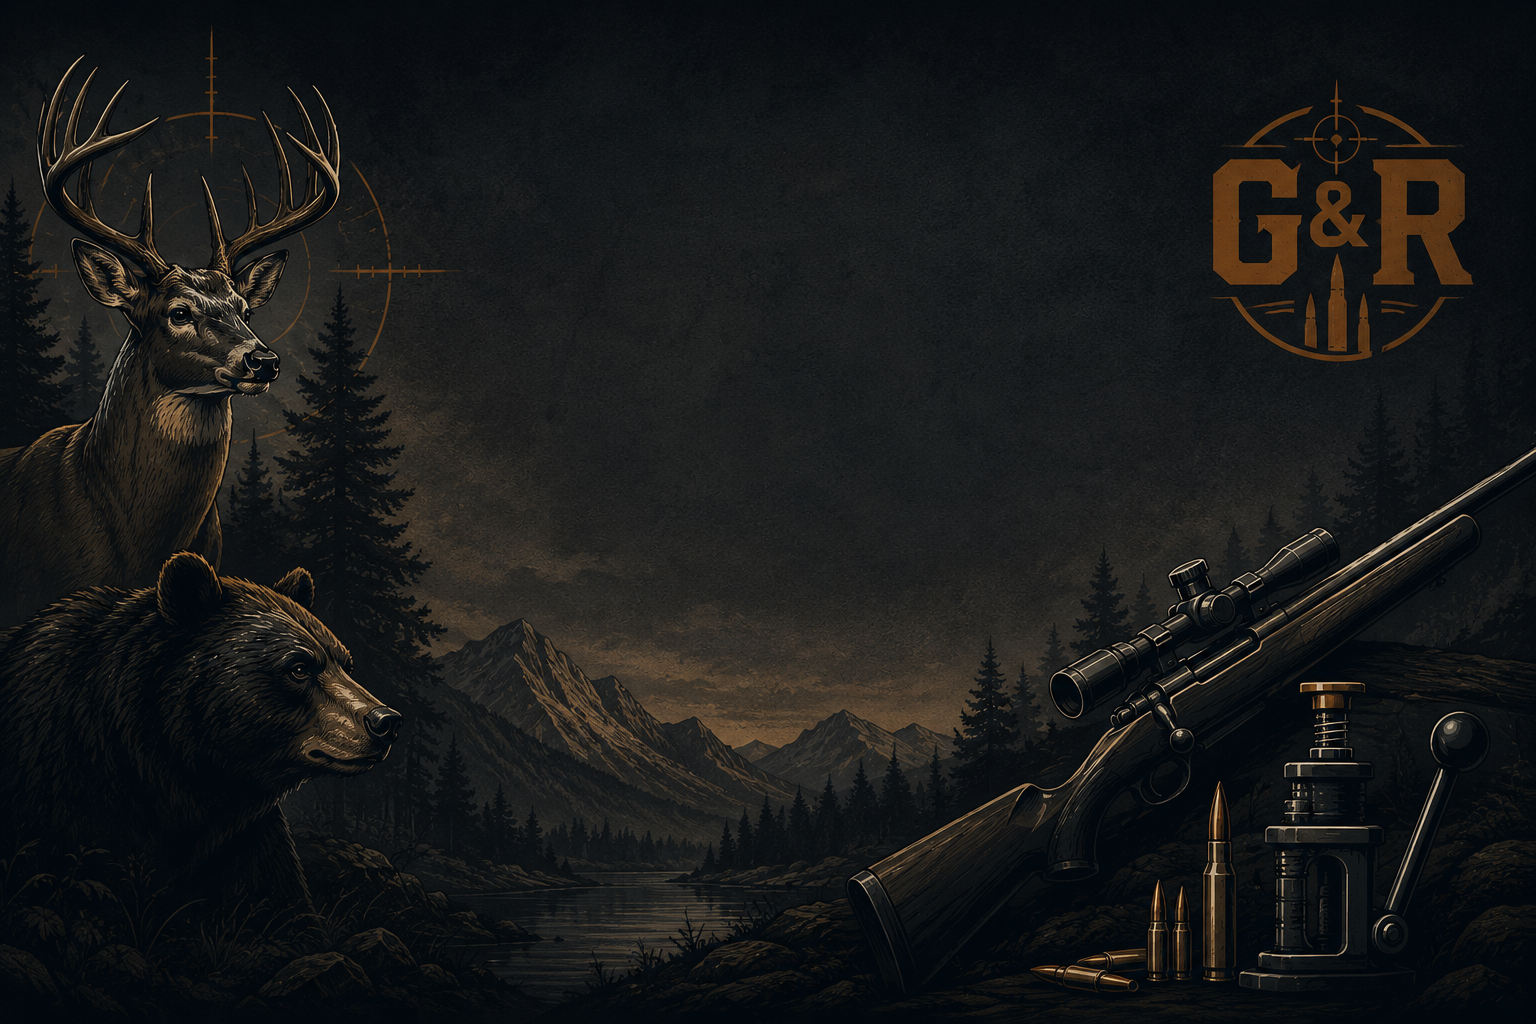
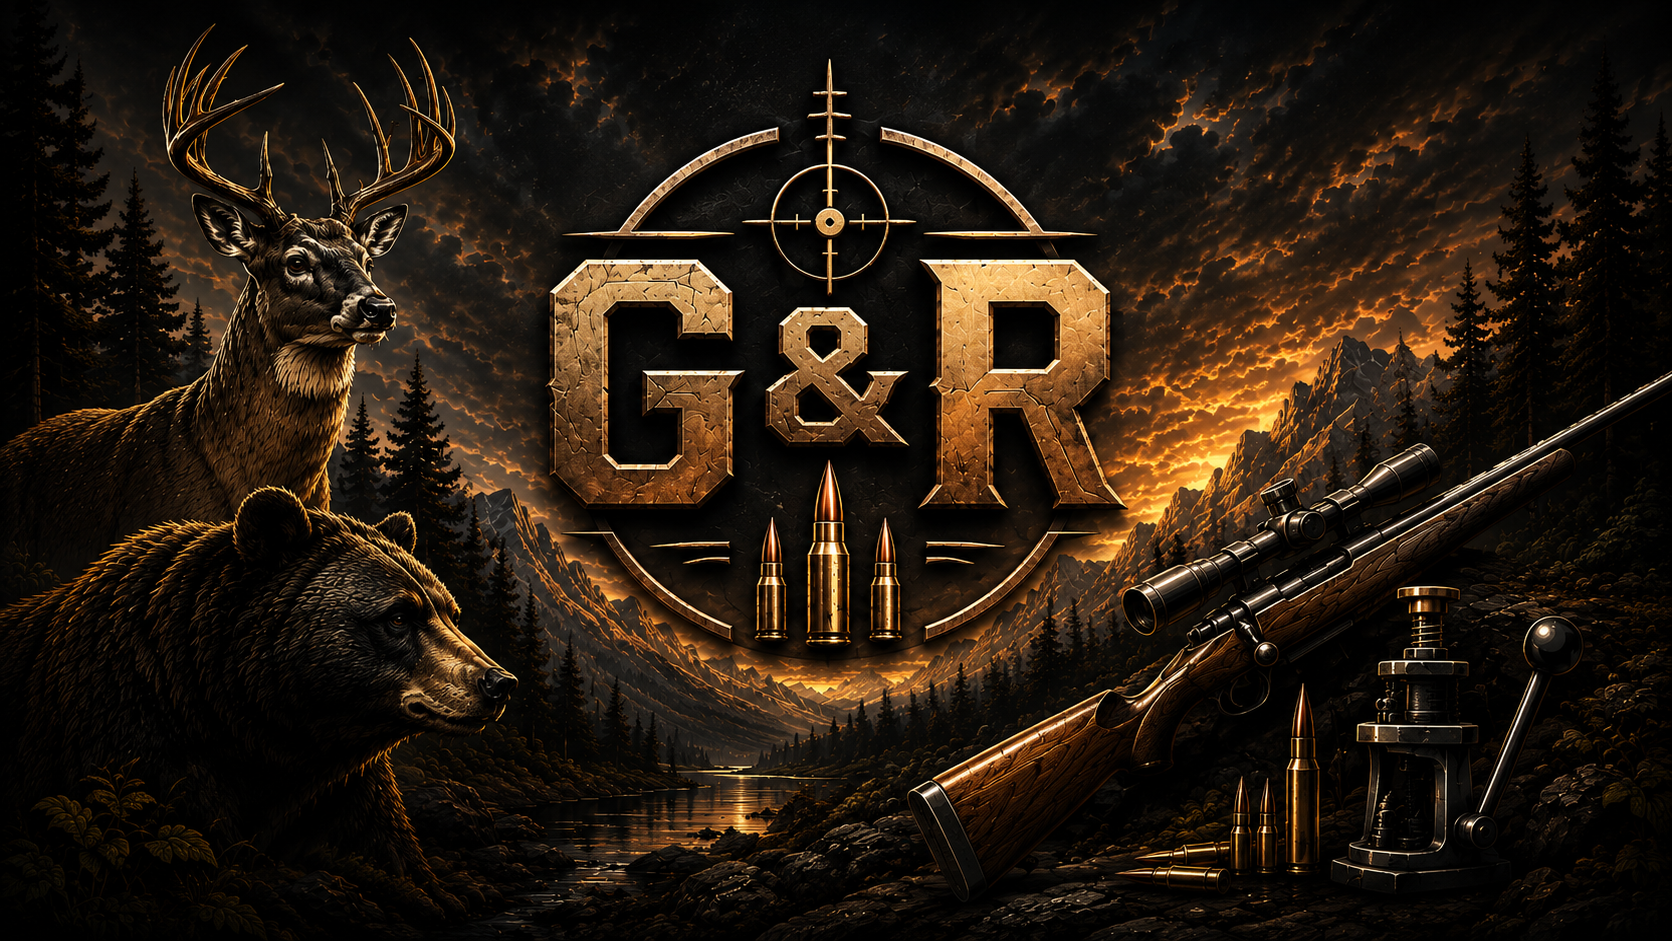
feat(v1.3): responsive backgrounds, breadcrumb links, Add Inventory fix
- Responsive backgrounds: phone-background.png on mobile, background.png
  on desktop, applied to all pages (index, login, setup, profile, admin,
  all detail pages) — replaces old background-2.png everywhere
- Breadcrumb links on detail pages now navigate back to the correct
  inventory tab (TC Barrels, Firearms, Ammunition) via ?tab= URL params
- app.js: window.onload reads tab/inv/platform/ammofilter query params to
  deep-link into any tab on page load
- Fix Add Inventory sidebar button: now calls switchFormCategory so the
  platforms pane is always shown regardless of prior navigation state

diff --git a/templates/ammo-detail.html b/templates/ammo-detail.html
@@ -5,19 +5,23 @@
     <meta name="viewport" content="width=device-width, initial-scale=1.0">
     <title>Ammo Detail — Vault</title>
     <script src="https://cdn.jsdelivr.net/npm/@tailwindcss/browser@4"></script>
+    <style>
+      body { background-image: url('/static/images/phone-background.png'); background-size: cover; background-position: center; background-color: #0f0f0f; }
+      @media (min-width: 1024px) { body { background-image: url('/static/images/background.png'); } }
+    </style>
 </head>
-<body class="text-gray-100 font-sans antialiased" style="background-image: url('/static/images/background-2.png'); background-size: contain; background-repeat: no-repeat; background-attachment: fixed; background-position: center; background-color: #0f0f0f;">
+<body class="text-gray-100 font-sans antialiased">
 
     <nav class="bg-gray-800 border-b border-gray-700 p-4 sticky top-0 z-50 shadow-md">
         <div class="container mx-auto flex justify-between items-center max-w-5xl">
             <div class="flex items-center space-x-2 text-sm">
-                <a href="index.html"><img src="/static/images/logo.png" alt="Inventory" class="h-6 w-auto hover:opacity-80 transition inline-block"></a>
+                <a href="/"><img src="/static/images/logo.png" alt="Inventory" class="h-6 w-auto hover:opacity-80 transition inline-block"></a>
                 <span class="text-gray-500">/</span>
-                <span id="breadcrumb-type" class="text-gray-500 text-xs">Ammunition</span>
+                <a id="breadcrumb-type-link" href="/?tab=catalog-tab&inv=ammo" class="text-gray-400 hover:text-amber-400 transition text-xs">Ammunition</a>
                 <span class="text-gray-500">/</span>
                 <span id="breadcrumb-name" class="text-gray-400 font-mono truncate max-w-xs">Loading...</span>
             </div>
-            <a href="index.html" class="text-xs bg-gray-700 hover:bg-gray-600 px-3 py-1.5 rounded text-white font-bold transition">← Back to Vault</a>
+            <a id="back-btn" href="/?tab=catalog-tab&inv=ammo" class="text-xs bg-gray-700 hover:bg-gray-600 px-3 py-1.5 rounded text-white font-bold transition">← Ammunition</a>
         </div>
     </nav>
 
@@ -242,7 +246,12 @@
             const caliber = a.caliber || 'Unknown Caliber';
 
             document.getElementById('breadcrumb-name').innerText = name;
-            document.getElementById('breadcrumb-type').innerText = isHandload ? 'Handloads' : 'Factory';
+            const _ammoFilter = isHandload ? 'handloads' : 'factory';
+            const _ammoBackHref = `/?tab=catalog-tab&inv=ammo&ammofilter=${_ammoFilter}`;
+            const _btl = document.getElementById('breadcrumb-type-link');
+            _btl.innerText = isHandload ? 'Handloads' : 'Factory';
+            _btl.href = _ammoBackHref;
+            document.getElementById('back-btn').href = _ammoBackHref;
             document.getElementById('detail-name').innerText = name;
             document.getElementById('detail-line').innerText = line || (isHandload ? 'Handload Recipe' : 'Factory Load');
             document.getElementById('badge-caliber').innerText = caliber;

diff --git a/templates/firearm-detail.html b/templates/firearm-detail.html
@@ -5,17 +5,23 @@
     <meta name="viewport" content="width=device-width, initial-scale=1.0">
     <title>Firearm Vault Analytics</title>
     <script src="https://cdn.jsdelivr.net/npm/@tailwindcss/browser@4"></script>
+    <style>
+      body { background-image: url('/static/images/phone-background.png'); background-size: cover; background-position: center; background-color: #0f0f0f; }
+      @media (min-width: 1024px) { body { background-image: url('/static/images/background.png'); } }
+    </style>
 </head>
-<body class="text-gray-100 font-sans antialiased" style="background-image: url('/static/images/background-2.png'); background-size: contain; background-repeat: no-repeat; background-attachment: fixed; background-position: center; background-color: #0f0f0f;">
+<body class="text-gray-100 font-sans antialiased">
 
     <nav class="bg-gray-800 border-b border-gray-700 p-4 sticky top-0 z-50 shadow-md">
         <div class="container mx-auto flex justify-between items-center max-w-6xl">
             <div class="flex items-center space-x-2 text-sm">
-                <a href="index.html"><img src="/static/images/logo.png" alt="Inventory" class="h-6 w-auto hover:opacity-80 transition inline-block"></a>
+                <a href="/"><img src="/static/images/logo.png" alt="Inventory" class="h-6 w-auto hover:opacity-80 transition inline-block"></a>
+                <span class="text-gray-500">/</span>
+                <a href="/?tab=catalog-tab&inv=platforms&platform=general" class="text-gray-400 hover:text-amber-400 transition">Firearms</a>
                 <span class="text-gray-500">/</span>
                 <span id="breadcrumb-current" class="text-gray-400 font-mono">Loading Profile...</span>
             </div>
-            <a href="index.html" class="text-xs bg-gray-700 hover:bg-gray-600 px-3 py-1.5 rounded text-white font-bold transition">Back to Vault</a>
+            <a href="/?tab=catalog-tab&inv=platforms&platform=general" class="text-xs bg-gray-700 hover:bg-gray-600 px-3 py-1.5 rounded text-white font-bold transition">← Firearms</a>
         </div>
     </nav>
 

diff --git a/templates/tc-barrel-detail.html b/templates/tc-barrel-detail.html
@@ -5,19 +5,23 @@
     <meta name="viewport" content="width=device-width, initial-scale=1.0">
     <title>TC Barrel Analytics</title>
     <script src="https://cdn.jsdelivr.net/npm/@tailwindcss/browser@4"></script>
+    <style>
+      body { background-image: url('/static/images/phone-background.png'); background-size: cover; background-position: center; background-color: #0f0f0f; }
+      @media (min-width: 1024px) { body { background-image: url('/static/images/background.png'); } }
+    </style>
 </head>
-<body class="text-gray-100 font-sans antialiased" style="background-image: url('/static/images/background-2.png'); background-size: contain; background-repeat: no-repeat; background-attachment: fixed; background-position: center; background-color: #0f0f0f;">
+<body class="text-gray-100 font-sans antialiased">
 
     <nav class="bg-gray-800 border-b border-gray-700 p-4 sticky top-0 z-50 shadow-md">
         <div class="container mx-auto flex justify-between items-center max-w-6xl">
             <div class="flex items-center space-x-2 text-sm">
-                <a href="index.html"><img src="/static/images/logo.png" alt="Inventory" class="h-6 w-auto hover:opacity-80 transition inline-block"></a>
+                <a href="/"><img src="/static/images/logo.png" alt="Inventory" class="h-6 w-auto hover:opacity-80 transition inline-block"></a>
                 <span class="text-gray-500">/</span>
-                <span class="text-gray-500">TC Barrels</span>
+                <a href="/?tab=catalog-tab&inv=platforms&platform=tc" class="text-gray-400 hover:text-amber-400 transition">TC Barrels</a>
                 <span class="text-gray-500">/</span>
                 <span id="breadcrumb-current" class="text-gray-400 font-mono">Loading...</span>
             </div>
-            <a href="index.html" class="text-xs bg-gray-700 hover:bg-gray-600 px-3 py-1.5 rounded text-white font-bold transition">Back to Vault</a>
+            <a href="/?tab=catalog-tab&inv=platforms&platform=tc" class="text-xs bg-gray-700 hover:bg-gray-600 px-3 py-1.5 rounded text-white font-bold transition">← TC Barrels</a>
         </div>
     </nav>
 

diff --git a/static/app.js b/static/app.js
@@ -2760,4 +2760,13 @@ async function loadLandingStats() {
     } catch (_) {}
 }
 
-window.onload = () => { fetchInitialLookupData(); applyPreferences(); loadLandingStats(); initCustomAC(); };
+window.onload = () => {
+    fetchInitialLookupData(); applyPreferences(); loadLandingStats(); initCustomAC();
+    const p = new URLSearchParams(location.search);
+    if (p.has('tab')) {
+        switchTab(p.get('tab'));
+        if (p.has('inv')) switchInventoryTab(p.get('inv'));
+        if (p.has('platform')) switchPlatformTab(p.get('platform'));
+        if (p.has('ammofilter')) switchAmmoFilter(p.get('ammofilter'));
+    }
+};

diff --git a/templates/index.html b/templates/index.html
@@ -6,6 +6,10 @@
     <title>Guns & Reloading</title>
     <link rel="icon" type="image/png" href="/static/images/logo.png">
     <script src="https://cdn.jsdelivr.net/npm/@tailwindcss/browser@4"></script>
+    <style>
+      #main-bg { background-image: url('/static/images/phone-background.png'); background-size: cover; background-position: center; background-color: #0f0f0f; }
+      @media (min-width: 1024px) { #main-bg { background-image: url('/static/images/background.png'); } }
+    </style>
 </head>
 <body class="bg-gray-950 text-gray-100 font-sans antialiased select-none flex min-h-dvh lg:h-dvh lg:overflow-hidden">
 
@@ -52,7 +56,7 @@
                 <span class="text-lg">🎯</span>
                 <div><div class="text-sm font-bold text-white">Range Session</div><div class="text-[10px] text-blue-400/70">Log a shot string</div></div>
             </button>
-            <button onclick="switchTab('add-tab'); closeSidebar()"
+            <button onclick="switchTab('add-tab'); switchFormCategory('cat-platforms'); closeSidebar()"
                 class="w-full flex items-center gap-3 px-3 py-2 rounded-lg bg-amber-950/60 hover:bg-amber-900/60 border border-amber-800/40 hover:border-amber-500/40 transition cursor-pointer text-left">
                 <span class="text-lg">⚙️</span>
                 <div><div class="text-sm font-bold text-white">Add Inventory</div><div class="text-[10px] text-amber-500/70">Firearms &amp; gear</div></div>
@@ -104,7 +108,7 @@
     <div id="sidebar-overlay" onclick="closeSidebar()" class="fixed inset-0 bg-black/60 backdrop-blur-sm z-30 hidden lg:hidden"></div>
 
     <!-- Right content area — background image fills this panel -->
-    <div class="flex-1 flex flex-col min-w-0 lg:min-h-0 lg:overflow-hidden" style="background-image: url('/static/images/background-2.png'); background-size: cover; background-position: center; background-color: #0f0f0f;">
+    <div id="main-bg" class="flex-1 flex flex-col min-w-0 lg:min-h-0 lg:overflow-hidden">
 
         <!-- Mobile-only top bar (hidden on lg+) -->
         <header class="lg:hidden flex items-center gap-3 p-3 bg-gray-900/95 border-b border-gray-800 shrink-0 z-20">

diff --git a/templates/admin_users.html b/templates/admin_users.html
@@ -5,8 +5,12 @@
     <meta name="viewport" content="width=device-width, initial-scale=1.0">
     <title>User Management — Guns & Reloading</title>
     <script src="https://cdn.jsdelivr.net/npm/@tailwindcss/browser@4"></script>
+    <style>
+      body { background-image: url('/static/images/phone-background.png'); background-size: cover; background-position: center; background-color: #0f0f0f; }
+      @media (min-width: 1024px) { body { background-image: url('/static/images/background.png'); } }
+    </style>
 </head>
-<body class="text-gray-100 font-sans antialiased" style="background-image: url('/static/images/background-2.png'); background-size: contain; background-repeat: no-repeat; background-attachment: fixed; background-position: center; background-color: #0f0f0f;">
+<body class="text-gray-100 font-sans antialiased">
 
 <div id="toast-container" class="fixed bottom-5 right-5 z-[100] space-y-2 pointer-events-none"></div>
 

diff --git a/templates/login.html b/templates/login.html
@@ -5,8 +5,12 @@
     <meta name="viewport" content="width=device-width, initial-scale=1.0">
     <title>Login — Guns & Reloading</title>
     <script src="https://cdn.jsdelivr.net/npm/@tailwindcss/browser@4"></script>
+    <style>
+      body { background-image: url('/static/images/phone-background.png'); background-size: cover; background-position: center; background-color: #0f0f0f; }
+      @media (min-width: 1024px) { body { background-image: url('/static/images/background.png'); } }
+    </style>
 </head>
-<body class="text-gray-100 font-sans antialiased min-h-screen flex items-center justify-center p-4" style="background-image: url('/static/images/background-2.png'); background-size: contain; background-repeat: no-repeat; background-attachment: fixed; background-position: center; background-color: #0f0f0f;">
+<body class="text-gray-100 font-sans antialiased min-h-screen flex items-center justify-center p-4">
 
     <div class="w-full max-w-sm">
         <!-- Logo / Title -->

diff --git a/templates/profile.html b/templates/profile.html
@@ -5,8 +5,12 @@
     <meta name="viewport" content="width=device-width, initial-scale=1.0">
     <title>Profile — Guns & Reloading</title>
     <script src="https://cdn.jsdelivr.net/npm/@tailwindcss/browser@4"></script>
+    <style>
+      body { background-image: url('/static/images/phone-background.png'); background-size: cover; background-position: center; background-color: #0f0f0f; }
+      @media (min-width: 1024px) { body { background-image: url('/static/images/background.png'); } }
+    </style>
 </head>
-<body class="text-gray-100 font-sans antialiased" style="background-image: url('/static/images/background-2.png'); background-size: contain; background-repeat: no-repeat; background-attachment: fixed; background-position: center; background-color: #0f0f0f;">
+<body class="text-gray-100 font-sans antialiased">
 
 <div id="toast-container" class="fixed bottom-5 right-5 z-[100] space-y-2 pointer-events-none"></div>
 

diff --git a/templates/setup.html b/templates/setup.html
@@ -5,8 +5,12 @@
     <meta name="viewport" content="width=device-width, initial-scale=1.0">
     <title>First-Run Setup — Guns & Reloading</title>
     <script src="https://cdn.jsdelivr.net/npm/@tailwindcss/browser@4"></script>
+    <style>
+      body { background-image: url('/static/images/phone-background.png'); background-size: cover; background-position: center; background-color: #0f0f0f; }
+      @media (min-width: 1024px) { body { background-image: url('/static/images/background.png'); } }
+    </style>
 </head>
-<body class="text-gray-100 font-sans antialiased min-h-screen flex items-center justify-center p-4" style="background-image: url('/static/images/background-2.png'); background-size: contain; background-repeat: no-repeat; background-attachment: fixed; background-position: center; background-color: #0f0f0f;">
+<body class="text-gray-100 font-sans antialiased min-h-screen flex items-center justify-center p-4">
 
     <div class="w-full max-w-sm">
         <!-- Logo / Title -->